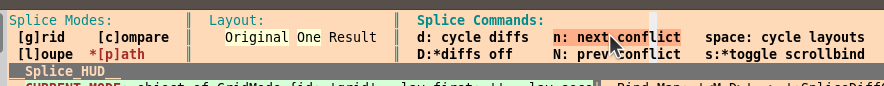
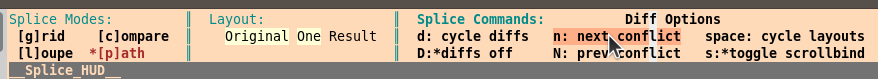
Doc, wiki, images.

diff --git a/README.md b/README.md
@@ -122,14 +122,26 @@ This region shows the arrangement of the open windows and which file/buffer is l
 
 The label of this region, `Splice Commands:`, is active. Click on it to display a popup which has each command with its associated keyboard shortcut.
 
+There's a [Splice Commands Shortcuts Screenshot](https://github.com/errael/splice9/wiki/Dialogs#splice-command-shortcuts)
+
 #### D: diffs off
 
 The command `D: diffs off` has embedded status information. When `Splice9` is diffing files there is a `*` displayed after the `D:`; this is shown in the image above. When the `*` is displayed, clicking on this command (or using the shortcut), turns off diffing. When diffing is turned off, this command returns to the previously active diff state.
+
+See
 
 #### s: toggle scrollbind
 
 The command `s: toggle scrollbind` also has a `*` indicator; it means that `scrollbind` is on. Note that `scrollbind` automatically goes on when diffing, the files that participate in the diff are in `scrollbind`. When not diffing, click on `scrollbind` so displayed files scroll together.
 
+#### Diff Options
+
+Click on `Diff Options` to bring up a property sheet dialog. Use it to change
+- some of `vim`'s `'diffopt'` settings
+- `Splice9`'s `wrap` setting
+- wrap for open windows without changing any settings
+
+There's a [Diff Options Screenshot](https://github.com/errael/splice9/wiki/Dialogs#diff-options)
 
 ## configuration
 
